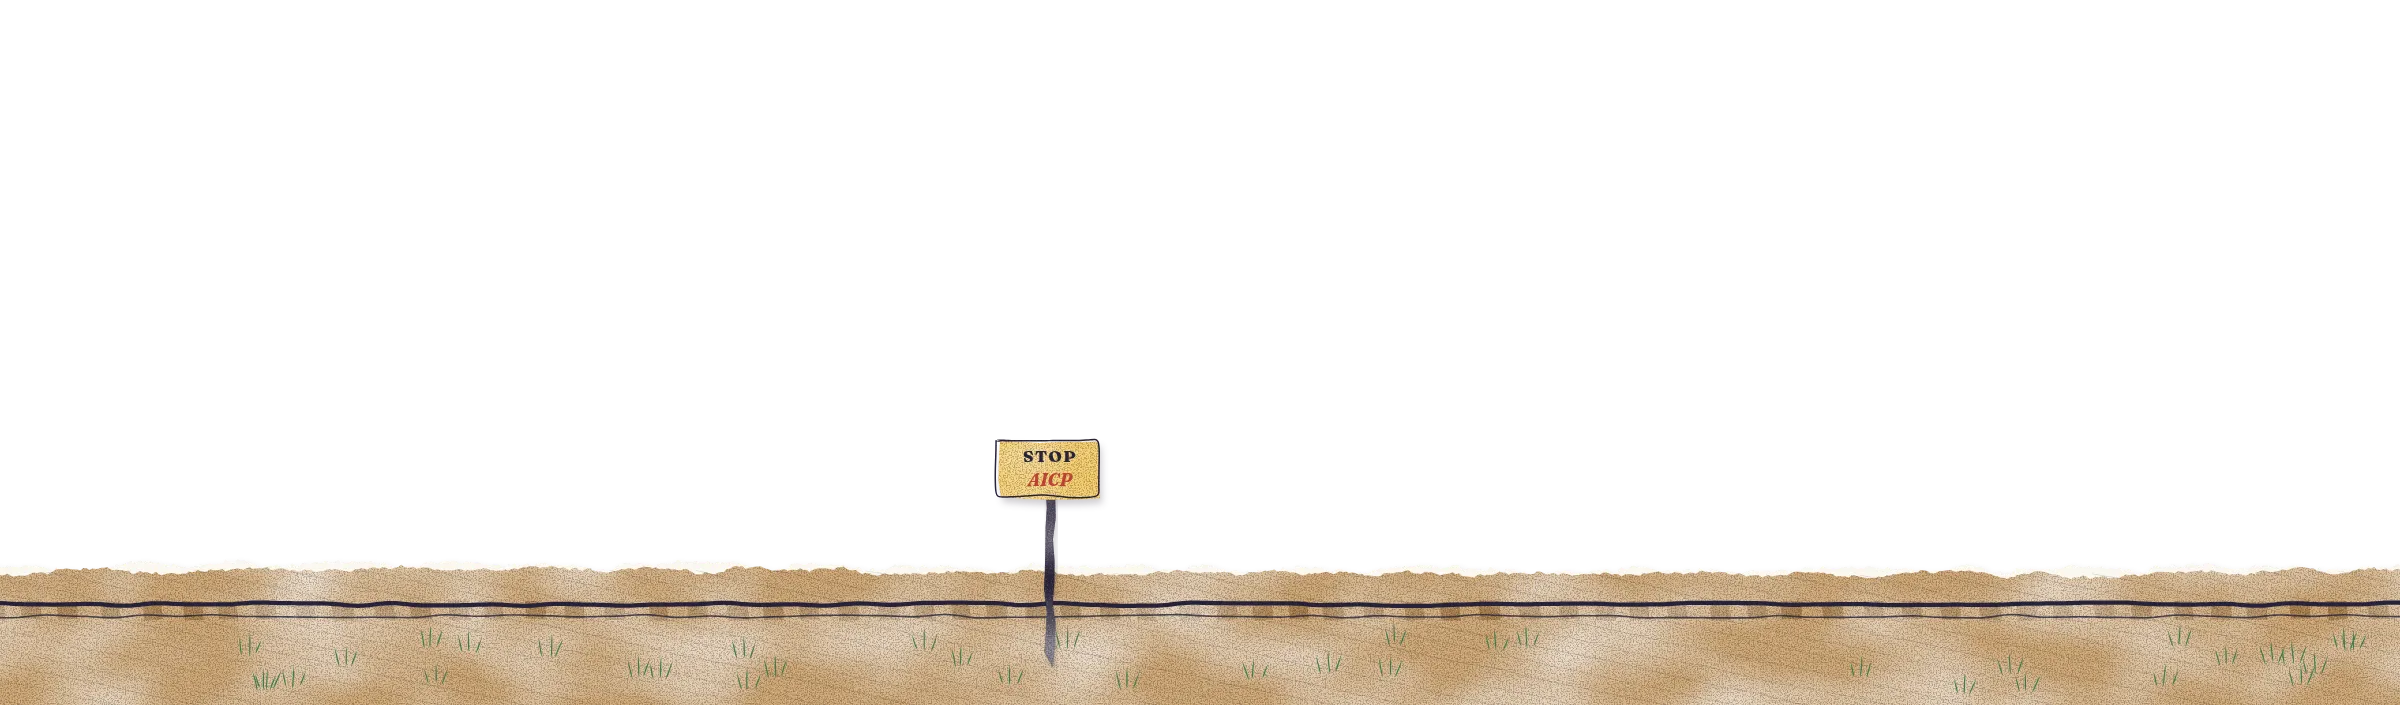
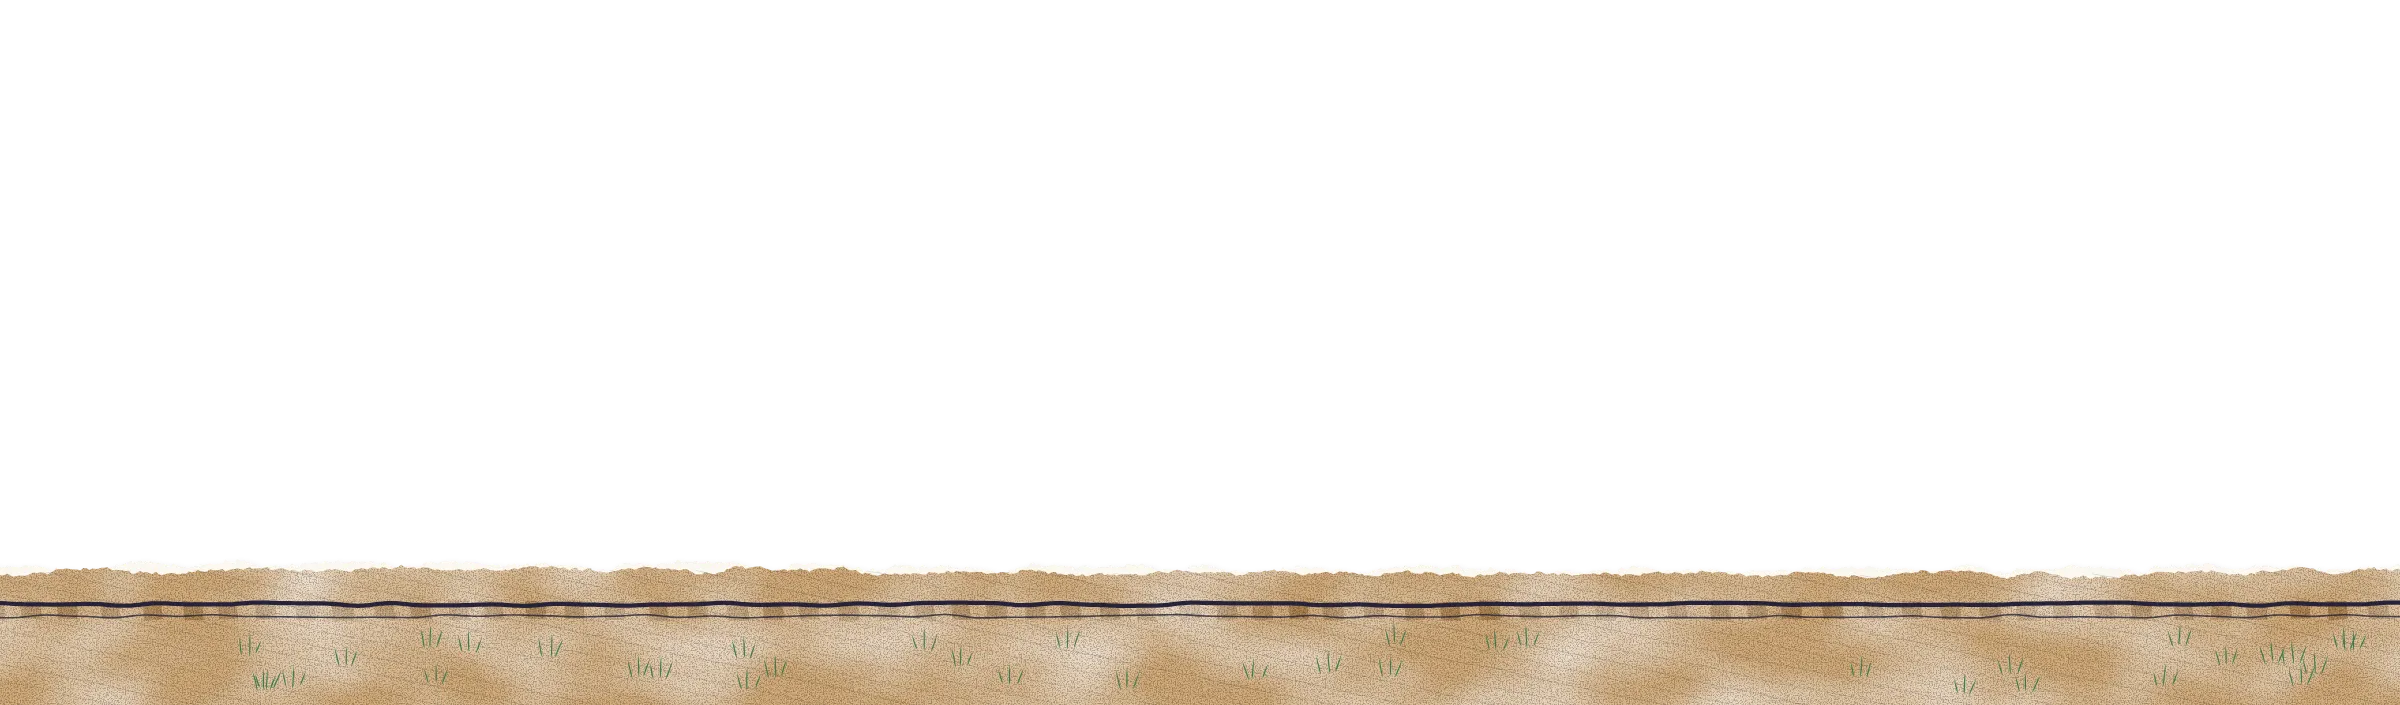
Hero: stop sign in front of the tram, tram starts off screen, card clears the torn edge
- art/scenes/hero.mjs: the AICP stop sign moves from the hero-track layer
  to the hero-crowd layer, so it draws in front of the tram. Re-rendered
  hero-track and hero-crowd.
- index.css: removed the -4s animation delay on the tram lane, wheels,
  and crowd, so the tram starts off screen and pulls in.
- index.css: .hero-card-narrow gets 56px of bottom padding on narrow
  screens, so the next section's torn edge no longer cuts off the
  Practice Exam 1 card.

Claude-Session: https://claude.ai/code/session_01HwurgaSM5Nx5a4nrNZWvQD

Changed region(s): [[0.4062, 0.6241, 0.4688, 0.7489]]

diff --git a/web/src/index.css b/web/src/index.css
@@ -1388,7 +1388,7 @@ img, svg { max-width: 100%; }
 /* Narrow screens: headline, then the town, then the diagnostic card. */
 @media (max-width: 899px) {
   .hero-card--wide { display: none; }
-  .hero-card-narrow { display: block; padding-top: 28px; }
+  .hero-card-narrow { display: block; padding-top: 28px; padding-bottom: 56px; }
   .hero-card-narrow .hero-card { justify-self: auto; margin: 0 auto; }
   .hero-grid { gap: 0; }
 }
@@ -1447,10 +1447,6 @@ img, svg { max-width: 100%; }
   animation: wheelTurn 26s infinite;
 }
 .town__crowd { animation: crowdHop 26s infinite; transform-origin: 50% 94%; }
-/* Start 4s into the loop, so the streetcar is already rolling into view on
-   page load instead of arriving from off screen. Lane, wheels, and crowd
-   share the delay to stay in step. */
-.town__lane, .town__wheel, .town__crowd { animation-delay: -4s; }
 
 /* Tram image's left edge sits at 13.5% while stopped just short of the AICP sign. */
 @keyframes tramRun {
